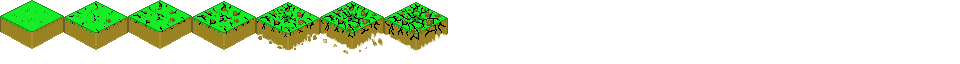
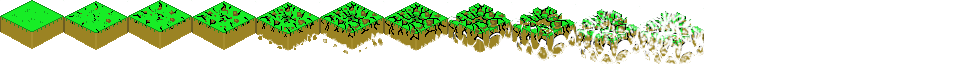
animated tile crumble
Former-commit-id: fe771c347724206c6d2d381d8d9cbeab3d6421ef

Changed region(s): [[0.4688, 0.0625, 0.75, 1.0]]

diff --git a/src/states/Game.js b/src/states/Game.js
@@ -104,6 +104,7 @@ export default class extends Phaser.State {
         tile.animations.add("0", [0]);
         tile.animations.add("1", [1, 2, 3], 6);
         tile.animations.add("2", [4, 5, 6], 6);
+        tile.animations.add("crumble", [7, 8, 9, 10], 6);
         tile.animations.play("0");
         tile.anchor.setTo(0.5, 0.25);
         tile.lastCracked = this.game.time.totalElapsedSeconds();
@@ -775,10 +776,13 @@ export default class extends Phaser.State {
       tile.lastCracked = this.game.time.totalElapsedSeconds();
       tile.animations.play(`${tile.crackLevel}`);
     } else {
-      tile.destroy();
+      tile.animations.play("crumble");
       this.crumbleSound.play();
       const {x: tx, y: ty} = this.nearestTileTo(tile.x, tile.y);
       this.map[ty][tx] = null;
+      this.game.time.events.add(Phaser.Timer.SECOND * 4/6, () => {
+        tile.destroy();
+      });
     }
   }
 
